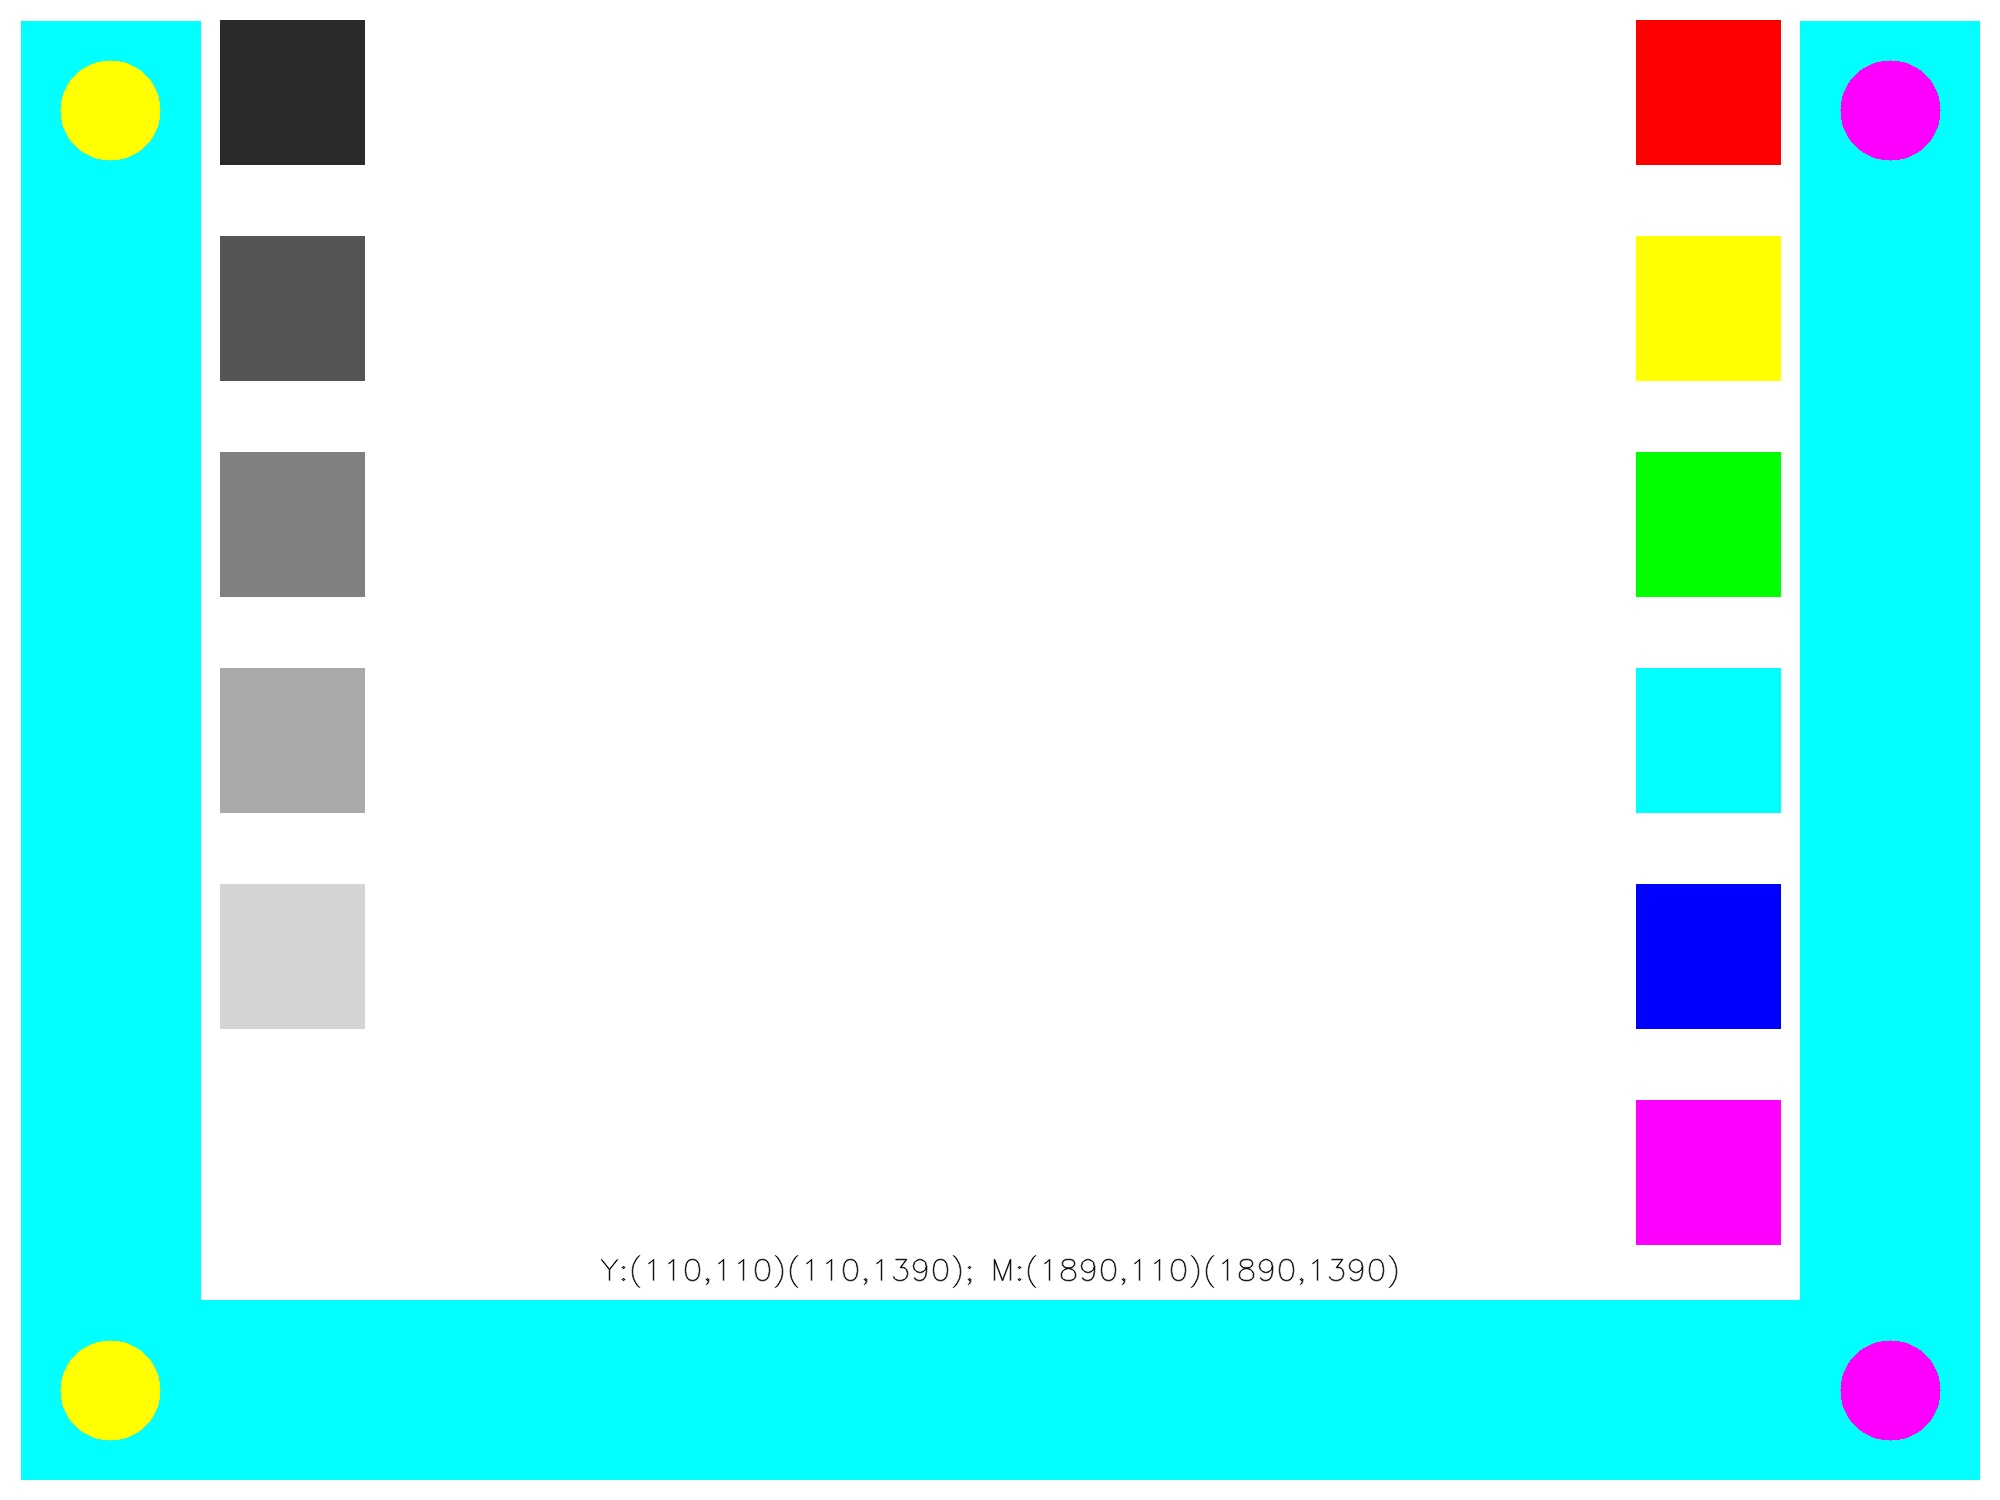
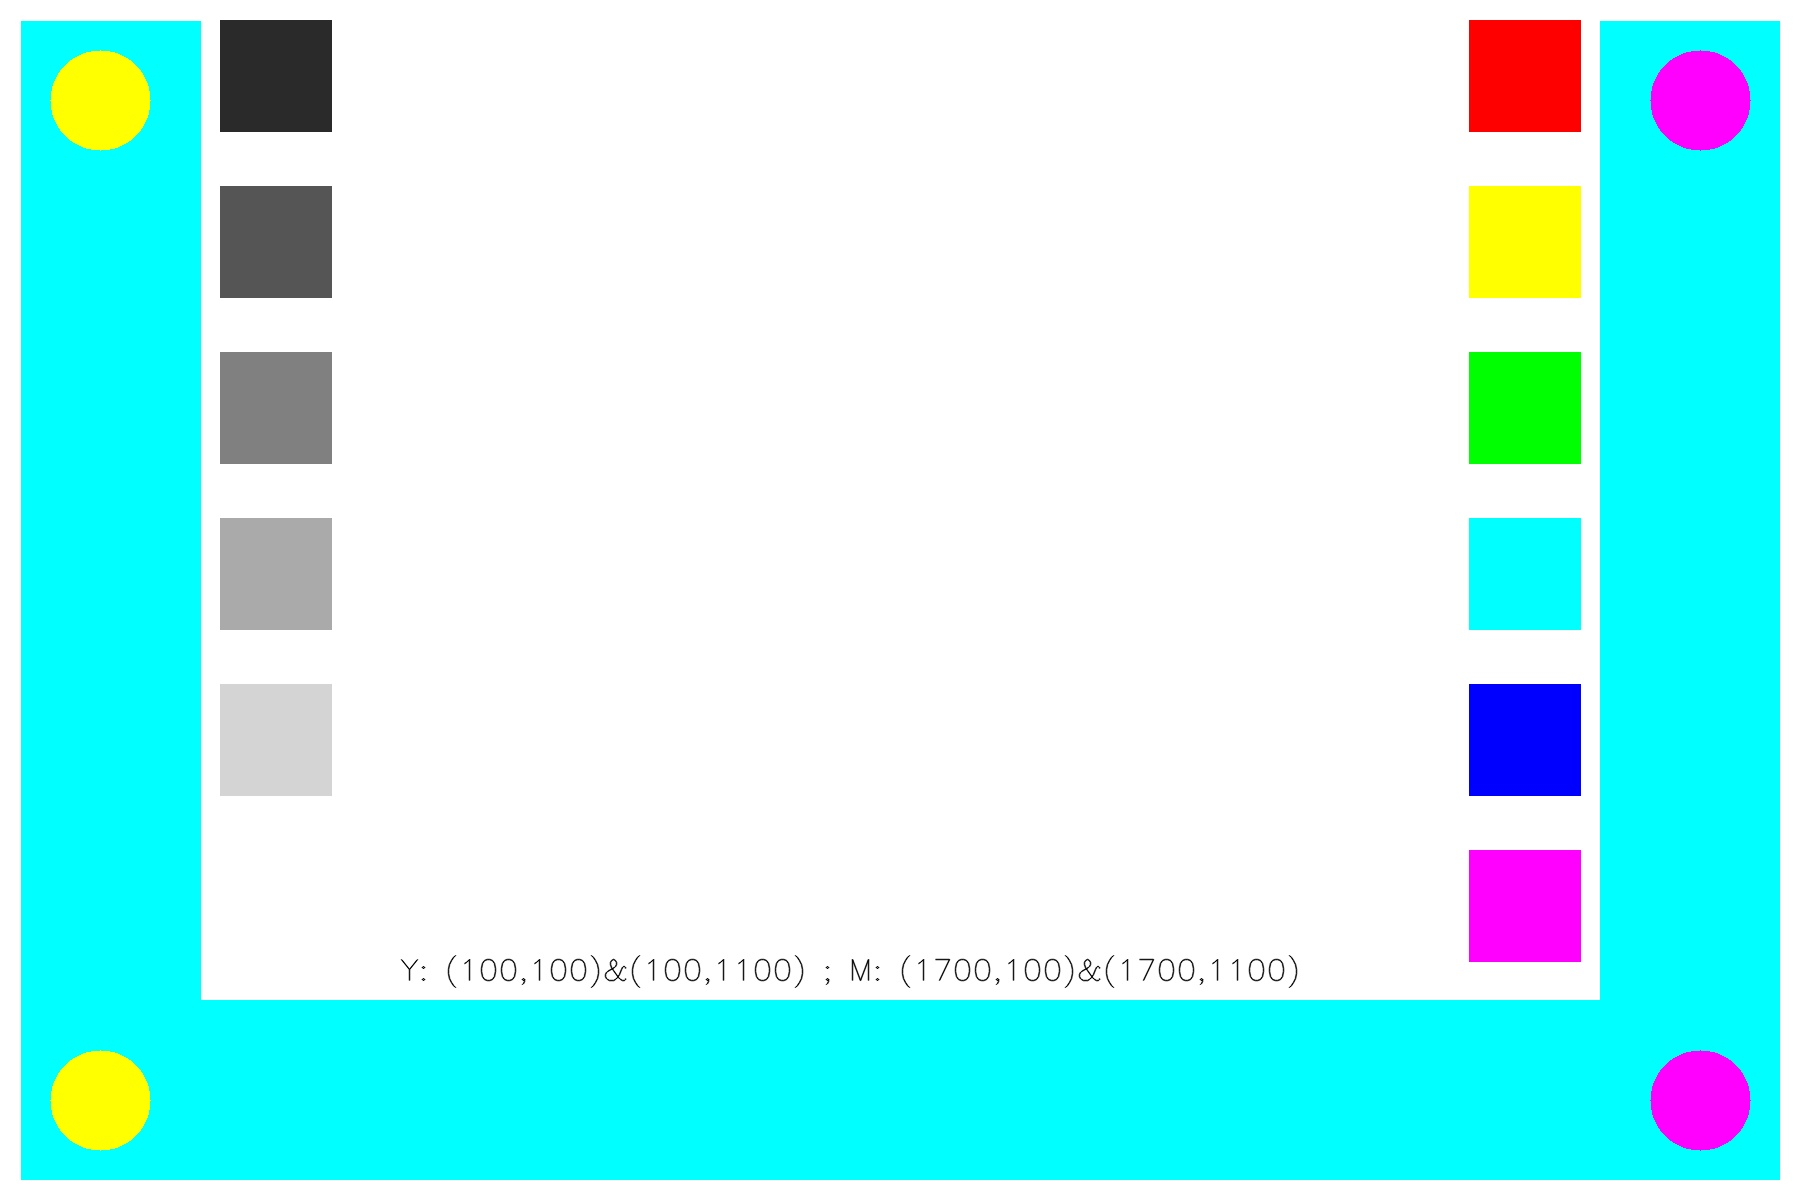
updated reference card to include 8.5 by 11

Changed region(s): [[0.0, 0.0, 0.9956, 0.9867], [0.1556, 0.1542, 0.1867, 0.185], [0.0, 0.0617, 0.0311, 0.0925]]

diff --git a/ColorValuesFromOOFileMeasuredWhatmanWideCorrectedReflectanceFullPaper.py b/ColorValuesFromOOFileMeasuredWhatmanWideCorrectedReflectanceFullPaper.py
@@ -150,17 +150,25 @@ for pH in range(len(pHValues)):
         ColorArray[pH,pad,3]=L
         ColorArray[pH,pad,4]=A
         ColorArray[pH,pad,5]=B
-        
-stripinc=92
-padinc=100
-stripstart=256
-padstart=260
-circler=40
-
-paperWidth=1800
-paperHeight=1200
+#for 8.5 by 11        
+paperWidth=int(11*300)
+paperHeight=int(8.5*300)
 borderMargin=300
 numberSwatches=15
+
+#for 4 by 6        
+#paperWidth=int(6*300)
+#paperHeight=int(4*300)
+#borderMargin=200
+#numberSwatches=15
+
+#stripinc=92
+#padinc=100
+#stripstart=256
+#padstart=260
+#circler=60
+
+
 
 whiteBorder=np.uint(borderMargin/10)
 regCircleRad=np.uint(borderMargin/4)
@@ -168,6 +176,12 @@ circlePad=np.uint(borderMargin/2+whiteBorder/2)
 refSwatchSpacing=np.uint((paperHeight-borderMargin)/numberSwatches)
 refSwatchDimension=np.uint((paperHeight-borderMargin)/(numberSwatches*1.5))
 swatchMargin=np.uint(borderMargin/10)
+stripinc=int(regCircleRad*2.2)
+padinc=stripinc
+stripstart=borderMargin+circlePad
+padstart=borderMargin
+circler=regCircleRad
+
 ReferenceImage = np.full((paperHeight,paperWidth, 3), 255,np.uint8)
 
 #cyan border
@@ -191,8 +205,18 @@ cv2.circle(ReferenceImage,(paperWidth-circlePad,paperHeight-circlePad), regCircl
 circleText="Y:("+str(circlePad)+","+str(circlePad)+")("+str(circlePad)+","+str(paperHeight-circlePad)+")"
 
 #box for pH strip
-cv2.rectangle(ReferenceImage,(370,770), (1382,893), (255,0,255), 50)
-cv2.rectangle(ReferenceImage,(415,790), (475,873), (0,0,0), -1)
+#cv2.rectangle(ReferenceImage,(370,770), (1382,893), (255,0,255), 50)
+#cv2.rectangle(ReferenceImage,(415,790), (475,873), (0,0,0), -1)
+boxWide=int(8.6/2.54*300)
+boxHigh=int(0.55/2.54*300)
+boxLine=50
+cv2.rectangle(ReferenceImage,(borderMargin+circlePad,int(paperHeight/2.5)), (borderMargin+circlePad+boxWide+boxLine,int(paperHeight/2.5)+boxHigh+boxLine), (255,0,255), boxLine)
+
+#box for Whatman reference which is 12.7 cm by 7 cm
+boxWide=int(12.7/2.54*300)
+boxHigh=int(7/2.54*300)
+cv2.rectangle(ReferenceImage,(borderMargin+circlePad,int(paperHeight/2)), (borderMargin+circlePad+boxWide+boxLine,int(paperHeight/2)+boxHigh+boxLine), (0,255,255), boxLine)
+
 
 circleText=circleText+"; M:("+str(paperWidth-circlePad)+","+str(circlePad)+")("+str(paperWidth-circlePad)+","+str(paperHeight-circlePad)+")"
 cv2.putText(ReferenceImage, circleText, (borderMargin*3,paperHeight-borderMargin-swatchMargin), font, 1,(0,0,0),1,cv2.LINE_AA)
